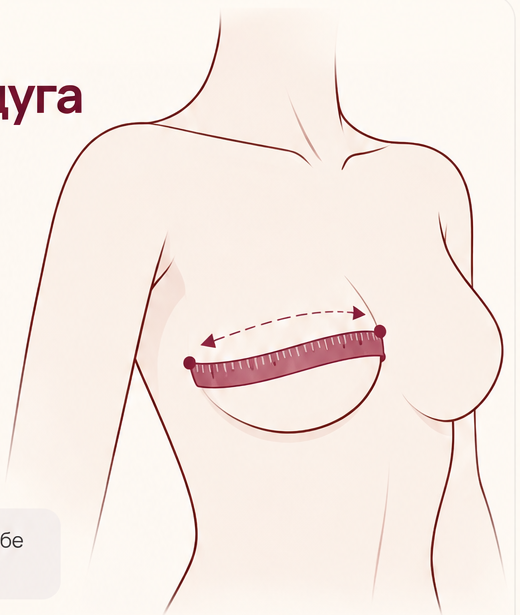
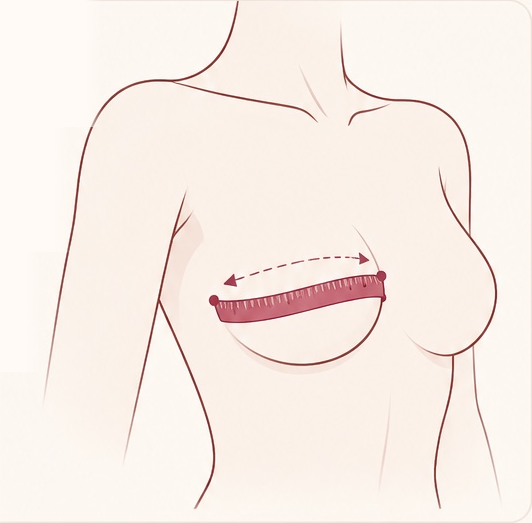
27

diff --git a/index.html b/index.html
@@ -86,9 +86,17 @@ input::placeholder{font-family:Manrope,Arial,sans-serif;font-size:13px;color:#a4
 .measurement-glint .glint-spark{fill:none;stroke:#b85b78;stroke-width:2;stroke-linecap:round;stroke-dasharray:4 320;animation:measure-shimmer 2.8s linear infinite}
 @keyframes measure-shimmer{to{stroke-dashoffset:-324}}
 @media(prefers-reduced-motion:reduce){.measurement-glint path{animation:none}}
-</style><style>.clean-illustration{width:100%;max-width:570px;aspect-ratio:520/480;overflow:hidden;background:#fffaf5;border-radius:16px;margin:18px auto 22px}.clean-illustration img{width:100%;height:100%;object-fit:contain;display:block}</style></head><body><main><div class="brand"><img src="logo.png?v=5" alt="TRESÓR"></div><header class="hero"><h1>Подберём твой размер за 5 минут</h1><p>Всего две мерки — и мы подскажем, с какого размера начать примерку.</p></header>
-<section class="card" id="measure-arc"><div class="tag">01 / ПЕРВОЕ ИЗМЕРЕНИЕ</div><h2>Горизонтальная дуга</h2><p>Измерь самую выступающую часть одной груди по горизонтали, от внешнего края к внутреннему. Сантиметровую ленту не натягивай.</p><div class="step-art clean-illustration"><img src="arc.svg" alt="Измерение горизонтальной дуги одной груди — анимированный сантиметр" loading="eager"></div><div class="step-entry"><label for="arc">Горизонтальная дуга, см</label><input id="arc" form="form" inputmode="decimal" type="text" placeholder="Например, 21" autocomplete="off" required><div class="note"><strong>Если грудь асимметрична:</strong> измерь обе груди и используй мерку <strong>большей</strong>.</div><a class="step-next" href="#measure-under">Далее: обхват под грудью ↓</a></div></section>
-<section class="card" id="measure-under"><div class="tag">02 / ВТОРОЕ ИЗМЕРЕНИЕ</div><h2>Обхват под грудью</h2><p>Проведи сантиметровую ленту вокруг тела под грудью. Держи её параллельно полу, не затягивая. Измеряй себя в мягком белье без поролона.</p><div class="step-art clean-illustration"><img src="band.svg" alt="Измерение обхвата под грудью — анимированный сантиметр" loading="eager"></div><form id="form"><div class="step-entry"><label for="under">Обхват под грудью, см</label><input id="under" inputmode="decimal" type="text" placeholder="Например, 74" autocomplete="off" required><button class="button" type="submit">Узнать свой размер →</button></div></form><div class="result" id="result" role="status" aria-live="polite"><div class="tag" id="resultTag"></div><div class="size" id="size"></div><p id="resultText"></p><p class="subtle" id="resultNote"></p><div class="result-actions"><button type="button" id="saveImage" class="action-btn secondary">Сохранить изображение ↓</button><button type="button" id="telegram" class="action-btn primary">Написать в Telegram ↗</button></div></div></section>
+</style><style>
+/* v28: approved poster art, independent illustrations; glints strictly follow the drawn tapes */
+.step-art-animated{position:relative;width:100%;max-width:570px;margin:16px auto 22px;overflow:hidden;border-radius:16px;background:#fffaf5;aspect-ratio:auto!important}
+.step-art-animated img{display:block;width:100%;height:auto;object-fit:contain}
+.art-shimmer{position:absolute;inset:0;width:100%;height:100%;pointer-events:none;overflow:hidden}
+.art-shimmer-line{fill:none;stroke:#fff9f5;stroke-width:11;stroke-linecap:butt;stroke-dasharray:24 650;filter:drop-shadow(0 0 3px #f9d0da);animation:tresor-approved-glint 2.65s linear infinite}
+@keyframes tresor-approved-glint{from{stroke-dashoffset:24}to{stroke-dashoffset:-330}}
+@media(max-width:510px){.step-art-animated{margin:14px auto 20px}}
+</style></head><body><main><div class="brand"><img src="logo.png?v=5" alt="TRESÓR"></div><header class="hero"><h1>Подберём твой размер за 5 минут</h1><p>Всего две мерки — и мы подскажем, с какого размера начать примерку.</p></header>
+<section class="card" id="measure-arc"><div class="tag">01 / ПЕРВОЕ ИЗМЕРЕНИЕ</div><h2>Горизонтальная дуга</h2><p>Измерь самую выступающую часть одной груди по горизонтали, от внешнего края к внутреннему. Сантиметровую ленту не натягивай.</p><div class="step-art step-art-animated art-arc"><img src="arc.png?v=28" alt="Оригинальная иллюстрация TRESÓR: горизонтальная дуга одной груди" loading="eager"><svg class="art-shimmer" viewBox="0 0 532 523" preserveAspectRatio="none" aria-hidden="true"><path class="art-shimmer-line" d="M213 310 Q296 302 382 287"/></svg></div><div class="step-entry"><label for="arc">Горизонтальная дуга, см</label><input id="arc" form="form" inputmode="decimal" type="text" placeholder="Например, 21" autocomplete="off" required><div class="note"><strong>Если грудь асимметрична:</strong> измерь обе груди и используй мерку <strong>большей</strong>.</div><a class="step-next" href="#measure-under">Далее: обхват под грудью ↓</a></div></section>
+<section class="card" id="measure-under"><div class="tag">02 / ВТОРОЕ ИЗМЕРЕНИЕ</div><h2>Обхват под грудью</h2><p>Проведи сантиметровую ленту вокруг тела под грудью. Держи её параллельно полу, не затягивая. Измеряй себя в мягком белье без поролона.</p><div class="step-art step-art-animated art-under"><img src="band.png?v=28" alt="Оригинальная иллюстрация TRESÓR: обхват под грудью" loading="eager"><svg class="art-shimmer" viewBox="0 0 532 539" preserveAspectRatio="none" aria-hidden="true"><path class="art-shimmer-line" d="M98 298 Q236 328 378 311"/></svg></div><form id="form"><div class="step-entry"><label for="under">Обхват под грудью, см</label><input id="under" inputmode="decimal" type="text" placeholder="Например, 74" autocomplete="off" required><button class="button" type="submit">Узнать свой размер →</button></div></form><div class="result" id="result" role="status" aria-live="polite"><div class="tag" id="resultTag"></div><div class="size" id="size"></div><p id="resultText"></p><p class="subtle" id="resultNote"></p><div class="result-actions"><button type="button" id="saveImage" class="action-btn secondary">Сохранить изображение ↓</button><button type="button" id="telegram" class="action-btn primary">Написать в Telegram ↗</button></div></div></section>
 <section class="card"><div class="tag">03 / О ПОСАДКЕ</div><h2>Проверяем посадку бюстгальтера</h2><p>Калькулятор подскажет, с какого размера начать примерку. Но даже при точных мерках разные модели могут сидеть по-разному.</p><p>Вот на что стоит обратить внимание:</p><ul class="checklist"><li><strong>Пояс.</strong> Расположен параллельно полу, плотно прилегает и не задирается на спине. Именно пояс обеспечивает основную поддержку груди.</li><li><strong>Чашки.</strong> Грудь полностью находится в чашках, ничто её не пережимает. Верхний край не должен делить грудь пополам: если грудь выпирает над ним, чашка может быть мала или не подходить по форме.</li><li><strong>Косточки.</strong> Проходят под грудью, огибают её основание и не давят на мягкие ткани, в том числе со стороны подмышек.</li><li><strong>Перемычка.</strong> В бюстгальтере с косточками центральная часть между чашками должна прилегать к грудине, а не висеть перед ней.</li><li><strong>Бретели.</strong> Комфортно лежат на плечах и не врезаются в кожу. Их длину регулируют с учётом роста, пропорций корпуса и положения груди — не для того, чтобы подтянуть грудь к подбородку.</li></ul><div class="note">Грудь должна полностью помещаться в чашке, без давления и заломов.</div></section>
 <section class="card"><div class="tag">04 / РАЗМЕРНАЯ СЕТКА</div><h2>Размерная сетка TRESÓR</h2><details class="size-chart"><summary>Посмотреть таблицу размеров</summary><p class="chart-note">Наша практическая таблица. Все значения в сантиметрах.</p><div class="chart-vertical"><table><thead><tr><th>Российский<br>размер</th><th>Горизонтальная<br>дуга, см</th><th>Обхват под<br>грудью, см</th></tr></thead><tbody><tr class=""><td>70B</td><td>17,5–18</td><td>68–72</td></tr><tr class=""><td>70C</td><td>18–20,5</td><td>68–72</td></tr><tr class=""><td>70D</td><td>20,5–22,5</td><td>68–72</td></tr><tr class=""><td>70E</td><td>22,5–24</td><td>68–72</td></tr><tr class="group-start"><td>75A</td><td>17,5–18</td><td>73–77</td></tr><tr class=""><td>75B</td><td>18–20,5</td><td>73–77</td></tr><tr class=""><td>75C</td><td>20,5–22,5</td><td>73–77</td></tr><tr class=""><td>75D</td><td>22,5–24</td><td>73–77</td></tr><tr class=""><td>75E</td><td>24–25,5</td><td>73–77</td></tr><tr class="group-start"><td>80A</td><td>18–20,5</td><td>78–82</td></tr><tr class=""><td>80B</td><td>20,5–22,5</td><td>78–82</td></tr><tr class=""><td>80C</td><td>22,5–24</td><td>78–82</td></tr><tr class=""><td>80D</td><td>24–25,5</td><td>78–82</td></tr><tr class=""><td>80E</td><td>25,5–26,5</td><td>78–82</td></tr><tr class="group-start"><td>85B</td><td>22,5–24</td><td>83–87</td></tr><tr class=""><td>85C</td><td>24–25,5</td><td>83–87</td></tr><tr class=""><td>85D</td><td>25,5–26,5</td><td>83–87</td></tr></tbody></table></div><p class="chart-note">На границе двух диапазонов выбираем меньшую чашку. За пределами таблицы калькулятор может предложить предварительный размер по расширенной сетке.</p></details></section>
 <section class="gift-visual-section" aria-label="Подарок от TRESÓR"><img src="gift_visual.png?v=14" class="gift-visual" alt="05 / Подарок от TRESÓR. Твои мерки — наш подарок. При первом заказе назови промокод ЛЕНТА — и мы подарим тебе фирменную сантиметровую рулетку. Твой промокод: ЛЕНТА." loading="lazy"><p class="gift-small-note">Промокод <strong>ЛЕНТА</strong> назови при первом заказе. Копировать ничего не нужно 🤎</p></section>
